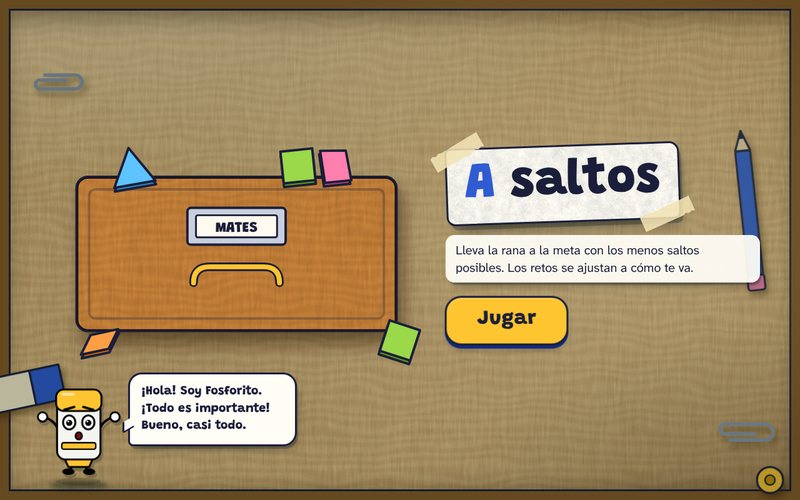
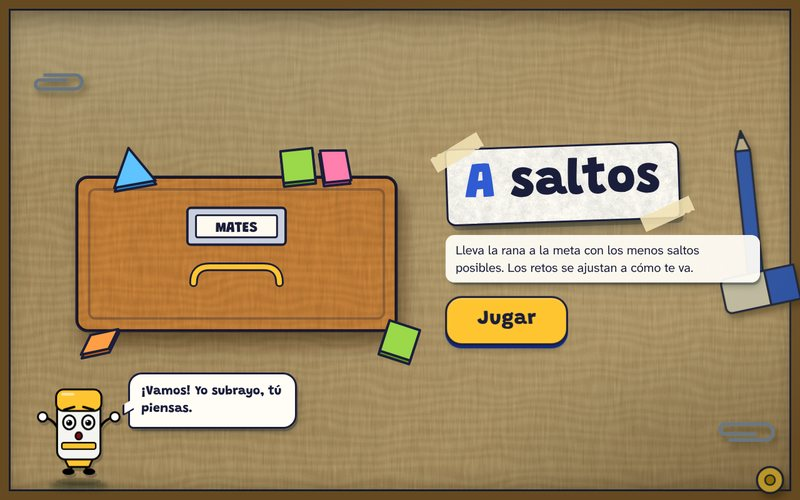
Las piezas de siempre al nivel nuevo: regla, chincheta, rana, etiquetas y máquina de cifras
- Regla de madera con contorno, veta, canto y cantoneras de metal; marcas y números en tinta
- Chincheta roja de cartulina, rana y banderín redibujados con el mismo trazo que los personajes
- Etiquetas colgantes de cartulina con agujero y cordel, en bandeja de cartón
- Máquina de cifras como la de ceros: fichas de papel con canto y tapete de fieltro
- Baldosas de barro en los patios; portadas regeneradas

Claude-Session: https://claude.ai/code/session_01QUDmSgHLXgaRdHN8Km8PUg

diff --git a/public/juegos/motores/piel.css b/public/juegos/motores/piel.css
@@ -736,3 +736,57 @@ body.mapa-cajon .mesa-juego{padding-right:clamp(12px,2.4vw,30px)}
 .premio-pegatina .pegatina-album{width:96px;height:96px}
 .premio-pegatina b{display:block;font-family:var(--fuerte);font-weight:900;font-size:22px}
 .premio-pegatina small{font-weight:700;color:var(--gris)}
+
+/* =====================================================================================
+   Las piezas de siempre, al nivel nuevo: regla, etiquetas colgantes, rana y máquina de cifras
+   ===================================================================================== */
+/* regla de madera con canto, contorno y cantonera de metal */
+.regla{border:var(--borde);border-radius:8px;
+  background:
+    linear-gradient(90deg,#c9cfdd 0 12px,var(--tinta) 12px 15px,transparent 15px calc(100% - 15px),var(--tinta) calc(100% - 15px) calc(100% - 12px),#c9cfdd calc(100% - 12px)),
+    linear-gradient(180deg,rgba(255,255,255,.45) 0 6px,transparent 6px),
+    url('tex/madera.webp') 0 0/512px,
+    linear-gradient(180deg,#f0cf94,#d9a862);
+  background-blend-mode:normal,normal,multiply,normal;
+  box-shadow:inset 0 -7px 0 rgba(120,70,20,.4),5px 9px 0 -2px rgba(40,15,0,.28),8px 16px 20px -10px rgba(20,8,0,.6)}
+.tic{background:var(--tinta);opacity:.9}
+.tic.menor{opacity:.55}
+.num{color:var(--tinta);font-weight:800}
+.num.fuerte{font-weight:900}
+.resalte{background:var(--amarillo);opacity:.75}
+.chincheta svg{filter:drop-shadow(2px 3px 0 rgba(0,0,0,.15))}
+.boli-azul span{color:var(--cobalto)}
+.distancia b{background:var(--papel);border:2px solid var(--rojo);padding:0 6px}
+/* etiquetas colgantes: cartulina con agujero y cordel; la bandeja, de cartón */
+.bandeja{border:var(--borde);border-radius:16px;background:#c99a63 url('tex/cartulina.webp');background-blend-mode:multiply;box-shadow:inset 0 10px 14px -6px rgba(60,30,0,.55),var(--sombra-baja)}
+.bandeja:empty::before{color:rgba(40,20,0,.65);font-family:var(--fuerte);font-weight:800}
+.etiqueta{clip-path:none;border-radius:6px 12px 12px 6px;background:var(--papel) url('tex/papel.webp');background-blend-mode:multiply;font-family:var(--fuerte);font-weight:800;
+  box-shadow:0 4px 0 var(--tinta);filter:drop-shadow(3px 6px 4px rgba(10,20,25,.3))}
+.etiqueta::before{left:9px;width:12px;height:12px;margin-top:-6px;background:#c99a63;box-shadow:inset 0 0 0 2.5px var(--tinta)}
+.etiqueta small{font-family:'Texto',sans-serif;font-weight:700}
+.etiqueta.elegida{box-shadow:0 0 0 4px var(--amarillo),0 4px 0 var(--tinta)}
+.etiqueta.elegida::after{display:none}
+.hilo{width:3px;margin-left:-1.5px;background:repeating-linear-gradient(var(--tinta) 0 4px,#c9cfdd 4px 7px)}
+.punta{width:16px;height:16px;margin-left:-8px;border:2.5px solid var(--tinta);background:radial-gradient(circle at 35% 30%,#fff 0 18%,#d7263d 32%)}
+.punto-bueno{border-color:#1b8f4e}
+/* la rana y sus saltos */
+.arcos text{stroke:var(--papel);fill:var(--tinta)}
+.saltos .tecla{font-family:var(--fuerte);font-weight:900}
+.cuenta{font-family:var(--fuerte)}
+.cuenta .paso{border:2.5px solid var(--tinta);box-shadow:0 3px 0 var(--tinta)}
+/* máquina de cifras, de la misma fábrica que la de ceros */
+.maquina{border:var(--borde);background:linear-gradient(180deg,#3d6fd6,#2b4fae);box-shadow:inset 0 3px 0 rgba(255,255,255,.3),inset 0 -8px 0 rgba(0,0,0,.25),var(--sombra)}
+.maquina::before,.maquina::after{border:2px solid var(--tinta);background:#c9cfdd}
+.placa span{color:#fff;font-weight:900}
+.luz{border:2.5px solid var(--tinta);background:#2a2f4a}
+.luz.on{background:var(--amarillo)}
+.hueco-cifra>button{border:3px solid var(--tinta);background:#151a33}
+.hueco-cifra small{color:#fff;font-weight:900}
+.ficha-cifra{border:3px solid var(--tinta);background:var(--papel) url('tex/papel.webp');background-blend-mode:multiply;box-shadow:inset 0 -6px 0 rgba(0,0,0,.1),0 5px 0 var(--tinta),4px 10px 10px -4px rgba(10,20,25,.45)}
+.hueco-cifra .ficha-cifra{box-shadow:inset 0 -6px 0 rgba(0,0,0,.1)}
+.tapete,.saco{border:var(--borde);background:#2e7d5b url('tex/fieltro.webp') 0 0/180px;background-blend-mode:multiply;box-shadow:inset 0 8px 14px rgba(0,0,0,.45),var(--sombra-baja)}
+.tapete .ficha-cifra[aria-pressed="true"]{box-shadow:0 0 0 4px var(--amarillo),0 5px 0 var(--tinta),0 22px 16px -8px rgba(0,0,0,.5)}
+.comparar b{color:var(--cobalto);font-family:var(--fuerte)}
+/* patios: las baldosas, de barro */
+.patio .baldosa,.esquema .baldosa{fill:#d9824f;stroke:var(--tinta);stroke-width:2}
+.patio .baldosa:nth-child(2n),.esquema .baldosa:nth-child(2n){fill:#c66a3d}

diff --git a/public/juegos/motores/recta.js b/public/juegos/motores/recta.js
@@ -39,12 +39,12 @@ function hazRegla({ min, max, marcas, divisiones, decimales }, fuertes = []) {
 }
 
 const CHINCHETA = `
-<ellipse cx="22" cy="75" rx="7" ry="2.4" fill="rgba(60,30,0,.35)"/>
-<rect x="20.4" y="42" width="3.2" height="34" rx="1.6" fill="#7d868c"/><rect x="21" y="42" width="1" height="32" fill="#e8ecef"/>
-<path d="M7 40 Q22 33 37 40 L37 44.5 Q22 51 7 44.5Z" fill="var(--acento)" stroke="var(--acento-osc)" stroke-width="2"/>
-<path d="M15 14 L29 14 L27.2 38 L16.8 38Z" fill="var(--acento)" stroke="var(--acento-osc)" stroke-width="2" stroke-linejoin="round"/>
-<rect x="5" y="2" width="34" height="14" rx="7" fill="var(--acento)" stroke="var(--acento-osc)" stroke-width="2"/>
-<rect x="10" y="5" width="11" height="4" rx="2" fill="#fff" opacity=".75"/><path d="M19 18 L19.6 35" stroke="#fff" stroke-width="2.4" stroke-linecap="round" opacity=".55"/>`;
+<ellipse cx="22" cy="76" rx="9" ry="3" fill="rgba(40,15,0,.4)"/>
+<path d="M20.2 44 h3.6 l-1 32 h-1.6z" fill="#c9cfdd" stroke="#1b1e3a" stroke-width="1.6"/>
+<path d="M6 41 Q22 33 38 41 L38 46 Q22 53 6 46Z" fill="#a8172c" stroke="#1b1e3a" stroke-width="3" stroke-linejoin="round"/>
+<path d="M14 14 L30 14 L27.5 39 L16.5 39Z" fill="#d7263d" stroke="#1b1e3a" stroke-width="3" stroke-linejoin="round"/>
+<rect x="4" y="2" width="36" height="15" rx="7.5" fill="#d7263d" stroke="#1b1e3a" stroke-width="3"/>
+<rect x="9" y="5" width="12" height="4.5" rx="2.2" fill="#fff" opacity=".8"/><path d="M19 18 L19.6 35" stroke="#fff" stroke-width="2.6" stroke-linecap="round" opacity=".6"/>`;
 
 /* ---------------------------------------------------------------- estimar */
 function estimar(d, ctx) {
@@ -322,15 +322,17 @@ function agrupa(pasos) {
 }
 const COLORES = [['var(--s1)', '#a88600', '#000'], ['var(--s2)', '#1a3f8f', '#fff'], ['var(--s3)', '#992350', '#fff'], ['var(--s4)', '#0f5e34', '#fff']];
 const RANA = `
-<ellipse cx="27" cy="46" rx="17" ry="3" fill="rgba(0,0,0,.22)"/>
-<path d="M7 44 Q2 36 10 33 L17 42Z M47 44 Q52 36 44 33 L37 42Z" fill="#3f9a26" stroke="#1f5c12" stroke-width="2.5" stroke-linejoin="round"/>
-<ellipse cx="27" cy="32" rx="20" ry="13.5" fill="#5bc236" stroke="#1f5c12" stroke-width="2.5"/>
-<ellipse cx="27" cy="37" rx="11" ry="5.5" fill="#c3f29e"/>
-<circle cx="17" cy="18" r="8" fill="#5bc236" stroke="#1f5c12" stroke-width="2.5"/><circle cx="37" cy="18" r="8" fill="#5bc236" stroke="#1f5c12" stroke-width="2.5"/>
-<g class="ojos"><circle cx="17" cy="18" r="4.6" fill="#fff"/><circle cx="37" cy="18" r="4.6" fill="#fff"/>
-<circle cx="18.2" cy="18.4" r="2.5" fill="#000"/><circle cx="38.2" cy="18.4" r="2.5" fill="#000"/></g>
-<path d="M19 30 Q27 36 35 30" fill="none" stroke="#1f5c12" stroke-width="2.5" stroke-linecap="round"/>`;
-const BANDERIN = `<rect x="2" y="4" width="3" height="58" rx="1.5" fill="#3b2a12"/><path d="M5 5 L36 13 L5 24Z" fill="var(--rojo)" stroke="#7a120e" stroke-width="2" stroke-linejoin="round"/>`;
+<ellipse cx="27" cy="47" rx="18" ry="3.4" fill="rgba(40,15,0,.3)"/>
+<path d="M6 45 Q0 36 9 32 L18 42Z M48 45 Q54 36 45 32 L36 42Z" fill="#5e9a1c" stroke="#1b1e3a" stroke-width="2.8" stroke-linejoin="round"/>
+<ellipse cx="27" cy="32" rx="20.5" ry="14" fill="#9bd84a" stroke="#1b1e3a" stroke-width="2.8"/>
+<ellipse cx="27" cy="38" rx="11.5" ry="5.6" fill="#e3f7c4"/>
+<path d="M12 27 q4 -5 9 -4" fill="none" stroke="#fff" stroke-width="2.6" stroke-linecap="round" opacity=".7"/>
+<circle cx="16.5" cy="17.5" r="8.4" fill="#9bd84a" stroke="#1b1e3a" stroke-width="2.8"/><circle cx="37.5" cy="17.5" r="8.4" fill="#9bd84a" stroke="#1b1e3a" stroke-width="2.8"/>
+<g class="ojos"><circle cx="16.5" cy="17.5" r="5" fill="#fff" stroke="#1b1e3a" stroke-width="1.6"/><circle cx="37.5" cy="17.5" r="5" fill="#fff" stroke="#1b1e3a" stroke-width="1.6"/>
+<circle cx="17.8" cy="18" r="2.6" fill="#1b1e3a"/><circle cx="38.8" cy="18" r="2.6" fill="#1b1e3a"/></g>
+<circle cx="13" cy="33" r="2.6" fill="#ff7fae" opacity=".8"/><circle cx="41" cy="33" r="2.6" fill="#ff7fae" opacity=".8"/>
+<path d="M19 31 Q27 37 35 31" fill="none" stroke="#1b1e3a" stroke-width="2.8" stroke-linecap="round"/>`;
+const BANDERIN = `<rect x="1.5" y="3" width="4" height="59" rx="2" fill="#c98a4b" stroke="#1b1e3a" stroke-width="1.6"/><path d="M5 5 L37 13 L5 25Z" fill="#e8417a" stroke="#1b1e3a" stroke-width="2.6" stroke-linejoin="round"/><circle cx="3.5" cy="3" r="3.4" fill="#ffc531" stroke="#1b1e3a" stroke-width="1.6"/>`;
 
 function saltar(d, ctx) {
   const saltos = [...(d.saltos ?? [1, 10, 100])].sort((a, b) => a - b);

diff --git a/public/juegos/motores/escena.js b/public/juegos/motores/escena.js
@@ -32,7 +32,7 @@ const FONDOS = {
     <g filter="url(#sombra-cajon)" stroke="#1b1e3a" stroke-linejoin="round">
       <g fill="none" stroke="#8d97a8" stroke-width="7" stroke-linecap="round"><path d="M1460 880 h70 a16 16 0 0 0 0 -32 h-80 a10 10 0 0 0 0 20 h60"/><path d="M90 150 h60 a14 14 0 0 1 0 28 h-70 a9 9 0 0 1 0 -18 h52"/></g>
       <g transform="translate(1500 300) rotate(84)" stroke-width="4"><rect width="260" height="30" rx="5" fill="#2f5bd3"/><path d="M0 0 L-40 15 L0 30Z" fill="#f4d9a8"/><path d="M-26 10 L-40 15 L-26 20Z" fill="#1b1e3a"/><rect x="250" y="-2" width="30" height="34" rx="5" fill="#ff7fae"/></g>
-      <g transform="translate(-30 760) rotate(-12)" stroke-width="4"><rect width="150" height="70" rx="12" fill="#fff1cf"/><rect x="90" width="60" height="70" rx="0" fill="#2f5bd3"/><path d="M90 0 v70" /></g>
+      <g transform="translate(1440 560) rotate(-12)" stroke-width="4"><rect width="150" height="70" rx="12" fill="#fff1cf"/><rect x="90" width="60" height="70" rx="0" fill="#2f5bd3"/><path d="M90 0 v70" /></g>
       <circle cx="1540" cy="960" r="26" fill="#ffc531" stroke-width="4"/><circle cx="1540" cy="960" r="10" fill="#c98f00" stroke-width="3"/>
     </g>`,
   // la mesa del puzle: tapete violeta con piezas sueltas en los bordes
